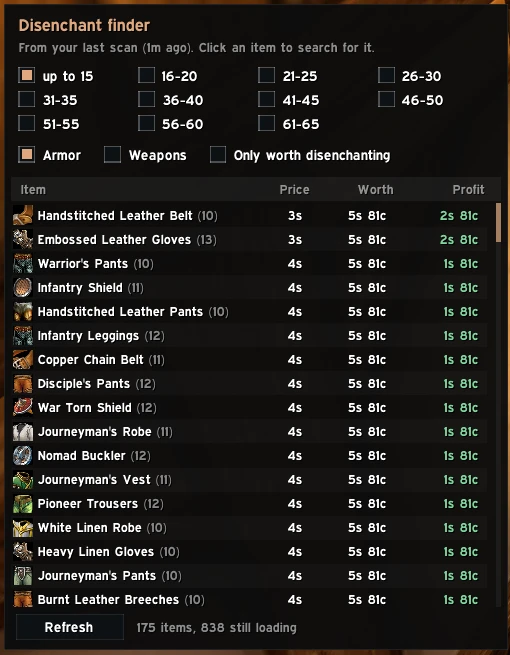
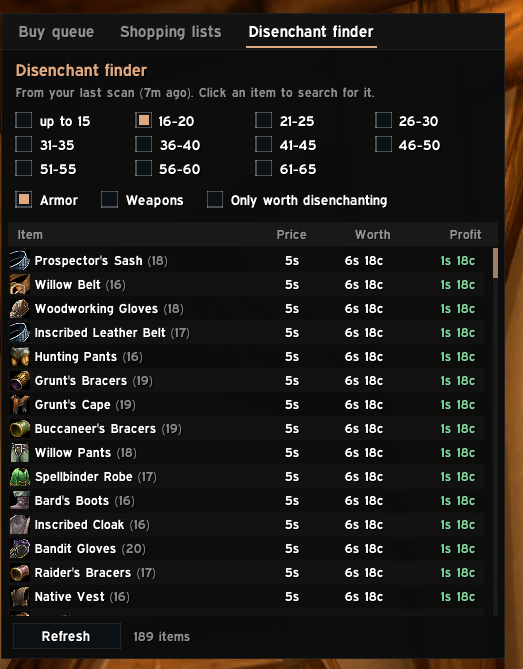
Release 0.8.0

Changed region(s): [[0.0, 0.0, 1.0, 1.0], [0.4118, 0.2443, 0.4412, 0.2748]]

diff --git a/CHANGELOG.md b/CHANGELOG.md
@@ -5,66 +5,47 @@ The format follows [Keep a Changelog](https://keepachangelog.com/en/1.1.0/) and 
 
 ## [Unreleased]
 
-### Added
-- Buy queue: a panel beside the auction house (the Buy queue button) lines up vendor flips and shopping list items, each in its own section. (Disenchanting and good deals were in it for a while; they're back in the Disenchant finder and the Deals tab, which show more.) It finds the next one by itself, and each tick of the mouse wheel down (or a click on Buy) buys it; stacks of materials take a second tick to confirm the final price. It never pays more than the limit or more than you have. /fl queue.
-- Shopping lists: named lists of items with the most you'd pay and how many you want to have (raid consumables, twink gear...). With a list open, shift-click items to add them (or drag or type them). Set an item to Craft and the list shows the materials you need for it instead. Search this list checks them all in one click, and those at or under your price join the buy queue. /fl lists opens them anywhere, not just at the auction house. Typing a name suggests matching items, including every original Classic item the game hasn't loaded yet (like flasks above the beta's level cap; ones that can't be bought are marked and listed last), and Craft uses the original Classic recipe when none of your characters knows it. Hover Have to see bags, bank and your other characters. List items not cheap enough yet wait in the buy queue, greyed. Prices can be typed any way (2g 50s, 1.5g, 25s, or a plain number for gold) with a tip showing what they'll be, and "any" (or Any price for a whole list) buys the cheapest until you have enough, at most 3 times the usual price.
-- Shopping lists show how far along they are: Have turns green when you have enough, the list name shows 3/5 done, and the bottom line says Complete (or that you have every material and just need to craft).
-- Scroll to buy now works over the top box of the buy queue (with Buy in it), starts off, and turns itself off when the queue runs out, so nobody buys by accident.
-- Shopping lists: "Want means" Keep this many (have that many: Buy again tops you up) or Buy this many (buy that many whatever you have: Buy again buys it all again), chosen per list.
-- Buy queue: it pauses its lookups while you search the auction house yourself (clicking flips in the main window, the search box), so it doesn't replace the page you're buying from (pages spun and buys were refused). It carries on a few seconds after you stop, or at once when you click Buy.
-- Buy queue: unticking a kind (Disenchant, Vendor flips...) now drops the item the queue was on if it was of that kind; it used to stay and keep buying (a disenchant green after Disenchant was unticked).
-- Buy queue: an item that's both a vendor flip and worth disenchanting shows once as FLIP+DE, with both values in its tooltip, instead of under whichever earned more. When the queue moves to the next item, an auction house page still showing the last one goes back to the search list instead of spinning on "Searching...".
-- Buy queue: the lookup for gear found nothing at all (it asked for exact matches but no item qualities); it now asks for every quality, like the search box, and falls back to searching the item itself.
-- Buy queue: gear flips all dropped out at once as "none left" (the first reply to a lookup can be empty or the previous search's); a reply without the item no longer counts.
-- Buy queue: no more "waiting for the scan to finish". The queue looks up and buys while any scan runs (only a full scan's few seconds are waited for); the scan pauses for a moment after each lookup and each buy, and carries on by itself.
-- Buy queue: a new vendor flip joins it within a second of being found, not at the end of the flip watch's pass.
-- Buy queue: gear never got bought (every stat version's reply was ignored and the item dropped out after three tries); any version is taken now. The queue's background searches no longer count as the page you're looking at, which showed the wrong "buy up to" on item pages and could log a gear purchase as the wrong item. With /fl debug on, it says why an item leaves the queue.
-- New and imported shopping lists start with "Use in the buy queue" off; tick it when you want the queue to buy from that list.
-- Buy again (and changing an item's Want or price) puts items back in the buy queue at once; they were kept out for 2 minutes after the queue last finished them.
-- Shopping lists count what you bought on the auction house that's still in the mail, so the queue doesn't buy it again before you collect it (hover Have to see it).
-- The buy queue works out disenchant values per item level band, so rebuilding it is much quicker.
-- Shopping lists: a dropdown of all your lists instead of arrows. Items stay done once you have enough, saved through reloads, so the queue doesn't refill them after you use some; Buy again starts a list over.
-- Share and import shopping lists as plain text (for Discord or a friend). Import also takes a plain list of item names, item numbers or Wowhead links. Items can be added by Wowhead link too.
-- /fl perf also shows the addon's memory use (after clearing leftovers), how long it took to load, and the biggest parts of the saved data.
+## [0.8.0] - 2026-10-02
 
-### Fixed (buy queue and lists)
-- Typing in a shopping list's price or Want box lost the cursor after a second, as the list redrew itself; it now waits while you type.
-- The Vendor flips tab no longer works out every shuffle each time the flip watch saves a price (about 195 ms each, many times a minute): it works out just the flips, at most every 2 seconds.
+### Highlights
+- **Buy queue**: vendor flips and shopping list items lined up beside the auction house; click Buy, or scroll over it, to buy the next one
+- **Shopping lists**: named lists with the most you'd pay and how many you want, saved, shareable, and searched in one click
+- **Craft from a list**: set an item to Craft and the list shows the materials you need, less what you have
+- **Every Classic item**: type any item name and pick it, even ones above the beta's level cap
+- **Vendor flip settings**: choose the least profit worth your time, as a share of the vendor price or an amount
+- **Better deals and shuffles**: deals judged against an item's usual cheapest price, and no more absurd shuffle returns
+- **Discord**: report bugs and ideas with /bug and /feature, and get told in your thread when a fix is live
+
+### Added
+- Buy queue: the Buy queue button under the auction house opens a panel beside it with vendor flips and your shopping list items, each in its own section. Click a section to buy from it (it gets a bright border); it looks up the next item by itself, and a click on Buy buys it. Stacks of materials take a second click to confirm the final price. It never pays more than the limit, checked again on the final price, or more than you have. Only the section you clicked looks anything up or buys, and scans never switch it, so a shopping list and the flip watch don't get in each other's way. /fl queue.
+- Scroll to buy: with it ticked, each tick of the mouse wheel down over your section's top strip buys, and it keeps working while the section is empty, so new flips can be bought the moment they show up. A section on its own gets a big strip to scroll over. It starts off.
+- The flip watch adds new flips to the queue within a second of finding them, and a full scan that finds some opens the queue if it's closed. Scans pause for a moment after each of the queue's lookups and buys, and the queue pauses while you search the auction house yourself, so neither replaces the page the other is using.
+- Shopping lists: named lists of items with the most you'd pay each and how many you want. Add items by shift-clicking them, dragging them in, typing an item number or Wowhead link, or typing a name and picking from the suggestions. Pick a list from the dropdown; tick "Use in the buy queue" for the queue to buy from it. Search list checks everything on it in one click. /fl lists opens them anywhere, not just at the auction house.
+- Want means: per list, Keep this many (bags, bank and auction house purchases still in the mail count; Buy again tops you up after you use some) or Buy this many (Bought counts purchases since Buy again; Buy again buys it all again). Items stay done once you have enough, so the queue doesn't refill them, and the list shows how far along it is (3/5, Complete).
+- Craft: set a list item to Craft and the list shows the materials for the number you want, less what you have, with the most to pay for each (your usual price unless you type one). Materials vendors sell are marked. When none of your characters knows the recipe, the original Classic one is used.
+- Prices can be typed any way (2g 50s, 1.5g, 25s, or a plain number for gold), with a tip showing what they'll be. "any", or Any price for a whole list, buys the cheapest until you have enough, never more than 3 times the usual price.
+- Share and Import shopping lists as plain text, for Discord or a friend. Import also takes a plain list of item names or Wowhead links.
+- Every original Classic item's name and recipe is built in, so you can find and plan items the game hasn't loaded yet; ones that can't be bought are marked.
+- Hover Have on a shopping list to see how many are in your bags, bank, the mail and on your other characters.
+- Vendor flips have their own settings: the least profit worth your time, as a share of the vendor price (0% counts anything below it) and as an amount each.
+- Crates: the money a turn-in pays back is taken off the cost ("Pays back" and "Net cost" columns), and crates that pay back more than they cost show a green profit.
+- Prices seen at a merchant note your standing with them: "Vendor sells it for 4c at Honored".
+- Discord: the Help tab and guide link the Forever Ledger Discord, where /bug and /feature report bugs and ideas. Your report becomes a GitHub issue; your replies are copied to it, and your thread is told when the fix is live.
+- "Your data" in the Help tab, the guide and the README: everything stays on your PC.
+- /fl perf also shows memory use, how long the addon took to load, and the biggest parts of the saved data.
 
 ### Changed
-- Buy queue sections: each ticked kind (Vendor flips, Disenchant, Good deals, Shopping lists) has its own section with its own list and Buy strip. Only the section you click is the one you buy from (bright border); the others just show what the last scan found. Scans and the flip watch never switch it, so a shopping list and the flip watch don't get in each other's way. Scroll to buy works over that section's strip, even while it's empty. A section on its own gets a big strip and Buy button, a large target to scroll over.
-- The Vendor flips tab is gone: vendor flips are bought from the Buy queue beside the auction house. A full scan that finds flips opens the Buy queue if it's closed (it never switches a tab you're on); the flip watch's quick checks only chime.
-- The Disenchant finder moved into the new side panel: the button under the auction house is now Buy queue, and the finder is its third tab.
-- Vendor flips have their own settings: the least profit worth your time, as a share of the vendor price (0% counts anything below it) and as an amount each. They used to share the shuffles' safety margin, but selling to a vendor has no risk, only effort. The same rule sets "buy up to" on the auction house and the below-vendor-price deal alerts.
+- The Vendor flips tab is gone: vendor flips are bought from the Buy queue. The Disenchant finder is now a tab of the same panel, next to Shopping lists.
+- Deals are measured against the price an item is usually cheapest at, not its typical price, so there are far fewer and far more believable deals.
+- Plays nice with Auctionator and TSM: the first time either is found, Forever Ledger turns off what they already cover (for now the price lines in tooltips) and says so once, with a button to keep them on.
 
 ### Fixed
-- Items vendors won't buy (Greater Magic Essence) showed "Sell to vendor 1c": the game gives them a 1c price. The addon now checks the item's own tooltip for a sell price and shows no vendor price when there isn't one.
-- Gear flips stayed on Vendor flips after their cheap listings were gone (Raider's Chestpiece, Priest's Mace, Soldier's Armor). The auction house's search list shows each item's cheapest price live, and saved listings below it are now dropped.
-- With the flip watch running, gear you bought was logged as the last item the watch looked at (a Soldier's Armor purchase showed as Curved Dagger).
-- Shuffles that end on the auction house showed absurd returns (Simple Linen Pants 10,564%): the item was valued at the average of a few pricey listings. What selling brings is now the lowest of today's cheapest listing, that average, and the usual cheapest price from your scans.
-- Greater Magic Wand showed as a deal after the October 1 patch made crafted wands vendor for 1 copper: its "usual price" came from before the change. Price history from before an item's vendor price changed is now ignored.
-- What a vendor pays now always follows the game's current item data (the tooltip's Sell Price); the remembered price is only used until the game has loaded the item. The October 1 beta build made crafted wands sell for 1 copper (Greater Magic Wand was 15s), and the old remembered price would have kept wand shuffles on the list.
-
-### Changed
-- Prices seen at a merchant now note your standing with that merchant and the character: "Vendor sells it for 4c at Honored" in tooltips, since reputation (and Forever's Bartering perk) lowers what vendors charge.
-
-### Added
-- Crates: the money a turn-in pays back (Apprentice about 2s 50c, green crates 5s, learned from your own turn-ins like the Favor) is taken off the cost. A new "Pays back" column, "Net cost" in place of Total, gold per Favor after the payout, and crates that pay back more than they cost show a green profit ("free" Favor).
-- With /fl debug on, scans report what the game tells about each listing (time left, seller), to plan a better sell speed.
-- Discord: when you reply in your bug or idea thread, your reply is copied to its GitHub issue, and when a release fixes it, the thread gets a "Now live in X" message.
-- "Help and community" in the Help tab and the guide: the Forever Ledger Discord (discord.gg/WKsCtvupeC), with /bug and /feature forms for reports and ideas.
-- "Your data" in the Help tab, the guide and the README: everything stays on your PC; the addon only sends live sync to your own paired character and ads you click to post.
-
-### Changed
-- Plays nice with Auctionator and TSM: the first time either is found, Forever Ledger switches off what they already cover (for now the auction and vendor price lines in tooltips) and says so once, with a button to keep them on. Settings can change it any time. This replaces the old one-line-tooltip question.
-- Deals are measured against the price an item is usually *cheapest* at, not its typical price (which includes dearer listings), and profit assumes reselling at that usual cheapest price or just under the next listing. Gray Woolen Robe at 40s showed as 27% off while it was normally listed from 38s; it's no longer a deal. Only listings that still make the minimum profit count towards "Profit all". Expect far fewer, more believable deals.
-
-### Fixed
-- Gear vendor flips now drop off as soon as you buy them (Hefty Battlehammer stayed until the next full scan): a gear purchase is taken off the saved listings.
-- Vendor flip alerts: a flip could appear on the Vendor flips tab without a chime (Roasted Boar Meat). Alerts now follow the tab exactly, fire as soon as the flip watch or your own search finds a flip instead of at the end of a two-minute pass, name each new flip in chat, and an item that stops being a flip alerts again if it comes back.
-
-### Added
-- Scans now also collect a rough sell speed (listings that disappear between full scans, compared across logins). It isn't shown yet: in the beta, full scans don't return the same listings each time, so the counts aren't reliable. It will appear on the Deals tab once it is.
+- Shuffles that end on the auction house showed absurd returns (Simple Linen Pants 10,564%); what selling brings now uses the item's usual cheapest price.
+- What a vendor pays follows the game's current item data, and price history from before a vendor price changed is ignored (crafted wands now sell for 1 copper, and the Greater Magic Wand stopped showing as a deal).
+- Items vendors won't buy (essences, dust, shards) showed "Sell to vendor 1c"; they show no vendor price now.
+- Gear flips dropped off as soon as their cheap listings were gone or bought, not at the next full scan, and gear purchases are logged under the right item.
+- Flip alerts follow the flips exactly and fire as soon as a flip is found.
+- The flips list no longer works out every shuffle each time a price is saved, which caused a small hitch every few seconds.
 
 ## [0.7.0] - 2026-09-30
 
@@ -188,7 +169,7 @@ A new look, a dashboard and a ledger, deal alerts, and tools for working a shuff
 - Work it: a small window for doing one shuffle, opened from any shuffle or vendor flip. Click an item to search the auction house for it or buy it from the open vendor (one click, one purchase). A Craft button starts the first craft; if that profession's window is closed, the first click opens it and the second crafts. One Runs number sets what to buy, how many to craft and the session goal.
 - Sessions: count what you spend on a shuffle's materials, earn from its products, and runs done, with profit and profit per hour, until you stop. A chime and "Goal reached" when you hit your goal. `/fl session` opens it.
 - Deal alerts after each scan (chime, on-screen message, chat list): listings well below their usual price (percent and period of your choice, from this addon's price history or TradeSkillMaster's when installed), or below what a vendor pays. `/fl deals` lists them.
-- On the auction house: listings worth buying are tinted on an item's buy page, with "Worth buying up to …: N available" above; search results are tinted too.
+- On the auction house: listings worth buying are tinted on an item's buy page, with "Worth buying up to â€¦: N available" above; search results are tinted too.
 - History, recorded from now on: each character's gold, money in and out by source, auction house sales (with quantity and buyer) and purchases, vendor trades per item (12 months), and price history per item (daily for 30 days, weekly for 2 years, all-time lowest and average). `/fl money` shows today's money.
 - Settings tab with controls for every setting.
 - The ledger window can be resized, and remembers its size.
@@ -209,7 +190,7 @@ Value engine, shuffle finder and vendor flips. Tested on the Forever beta. The i
 - Vendor floors: the guaranteed value of a material when a known recipe turns it into something a vendor buys.
 - Disenchant values for green armor and weapons up to item level 20: a "Disenchant" option in "Worth to you", a "Craft X, disenchant" option for materials, and a "Disenchants to about" tooltip line. Only shown when one of your characters has Enchanting. Crafted wands and other Enchanting products are skipped, since Forever doesn't allow disenchanting them.
 - Essence conversions in "Worth to you": splitting a greater essence into 3 lesser, and combining 3 lesser into a greater, for every essence type. Disenchant values use them too.
-- "Worth to you" follows chains up to 4 steps long, for example Linen Cloth → Bolt of Linen Cloth → Heavy Linen Gloves → disenchant → Greater Magic Wand → vendor. Only the three best recipes are listed.
+- "Worth to you" follows chains up to 4 steps long, for example Linen Cloth â†’ Bolt of Linen Cloth â†’ Heavy Linen Gloves â†’ disenchant â†’ Greater Magic Wand â†’ vendor. Only the three best recipes are listed.
 - Inside a chain, auction house prices with fewer than 5 listings are ignored, so one overpriced listing can't inflate values.
 - Shuffle finder: `/fl shuffles` lists the best shuffles in two groups, ones that end with vendor sales (safe) and ones that end on the auction house (depend on buyers). Each shows what to buy, profit per craft, return and a rough profit per hour. `/fl shuffles all` lists everything, including one-off deals with fewer than 5 listed.
 - Shuffles tab in the ledger window: the same two groups as `/fl shuffles`, one row each with profit, return and profit per hour. Click a row to see what to buy and each step. Refresh recalculates. Items that disenchant the same way are grouped into one row, for example "Item level 16-20 green armor (27 items)".

diff --git a/docs/GUIDE.md b/docs/GUIDE.md
@@ -44,6 +44,9 @@ Everything the addon does, at a high level. The same text is in the game under *
 - **Sections**: Vendor flips and Shopping lists are each their own section, stacked when both are ticked (one on its own gets a big strip to scroll over), each with its own list and its own strip at the top ("Buy Edged Bastard Sword for 9s", and a Buy button). **Only the section you click is the one you buy from**: it gets a bright border and says "buying from this one", and only it looks things up on the auction house. The others just show what the last scan found. A section on its own (flips only, say) starts by itself; shopping lists only ever start when you click them. Scans and the flip watch add to the sections but never switch which one you're buying from, so working on a shopping list never buys a flip by accident, and farming flips never buys from a list.
 - **Farming flips**: tick only Vendor flips, tick **Scroll to buy**, and leave the mouse over the flips strip. When the flip watch chimes, scroll down to buy; an empty section just waits for the next one.
 - **Safe by design**: it never pays more than the limit shown (checked again against the final price) or more than you have, and every purchase is your own tick or click, as Blizzard requires. **Scroll to buy** starts off; it only works over the top strip of the section you're buying from. Click a row to buy that one next; right-click to skip it. Gear sold in stacks is left for you to buy on the page.
+
+![Buy queue with Vendor flips and Scroll to buy ticked](images/buy-queue.png)
+
 - **Shopping lists**: named lists of items with the most you'd pay each and how many you want to have, for example raid consumables or twink gear to watch for. Pick a list from the dropdown at the top; every list ticked **Use in the buy queue** feeds the queue at the same time. With the list open, shift-click an item from your bags or a chat link to add it, drag it in, or start typing its name and pick from the suggestions (Enter takes the top one). Suggestions include items the game hasn't loaded yet, from original Classic. Hover **Have** to see how many are in your bags, bank and on your other characters. `/fl lists` opens your lists anywhere (a window you can move), so you can plan before you go to the auction house.
 - **Want means**: each list picks one.
   - **Keep this many** (the default): Want is how many you want to *have*. Bags, bank and auction house purchases still in the mail count, and the queue only buys what you're short of. After a raid, **Buy again** tops you back up to the number. Best for consumables you keep in stock.
@@ -63,6 +66,8 @@ Everything the addon does, at a high level. The same text is in the game under *
   If none of your characters knows the recipe, the original Classic recipe is used (hover the item to see it); Forever may have changed some.
 - **Search list** checks every item and material in one click; those at or under your price turn green and join the buy queue. Items not cheap enough yet wait at the bottom of the buy queue, greyed, so you can see they're being watched.
 - The panel's third tab is the **Disenchant finder** (below).
+
+![A shopping list with an item set to Craft and its materials](images/shopping-list.png)
 
 ## Deals
 

diff --git a/README.md b/README.md
@@ -10,7 +10,8 @@ A gold-making addon built specifically for **WoW Forever**. It scans the auction
 
 - **Tooltips that answer "what's this worth?"** The best way to turn an item into gold, the most it's worth paying, what it disenchants into, and which of your recipes use it. One line with Shift for more, if you prefer.
 - **Deals.** Listings well below their usual price, with why each one is a deal: the usual price and how many days of scans it's based on, the price now, the next listing up, and the resale profit after the auction house cut. Each deal is rated Good, Fair or Thin.
-- **Vendor flips.** Things on the auction house for less than a vendor pays. Watch flips keeps scanning while the auction house is open and chimes when one shows up.
+- **Buy queue.** Vendor flips (things on the auction house for less than a vendor pays) and your shopping lists, lined up beside the auction house: click Buy, or scroll over it, to buy the next one. Watch flips keeps scanning while the auction house is open and chimes when a new flip shows up.
+- **Shopping lists.** Named lists with the most you'd pay and how many you want (raid consumables, twink gear), saved and shareable. Set an item to Craft and the list shows the materials you need, less what you have.
 - **Shuffles.** Buy materials, craft, disenchant or convert, and sell, ranked by gold per hour. Work it walks you through each step with one-click buttons.
 - **On the auction house.** Listings worth buying get a green bar and a badge saying why (FLIP, DE, CRAFT, USE).
 - **Disenchant finder.** Green armor and weapons by item level, with what each is worth to disenchant and the odds of each material.
@@ -66,6 +67,7 @@ See the [roadmap](https://github.com/ivellos/forever-ledger/blob/main/ROADMAP.md
 | `/fl margin 10` | Safety margin for shuffles and "buy at or below", in percent |
 | `/fl seconds 3` | Seconds per craft, used for profit per hour |
 | `/fl watch` | Watch flips: keep scanning while the auction house is open, chime on a new vendor flip |
+| `/fl queue`, `/fl lists` | The buy queue or shopping lists beside the auction house (lists open anywhere) |
 | `/fl deals` | Open the Deals tab (`/fl deals list` in chat, `/fl deals settings` for the options; they're also in the Settings tab) |
 | `/fl customers` / `/fl work` | The Customers window: requests from chat, ads, and work done |
 | `/fl session` | Open the Work it window for the running session |

diff --git a/ROADMAP.md b/ROADMAP.md
@@ -6,8 +6,6 @@ What's already in the addon is in the [changelog](CHANGELOG.md). Download: [Rele
 
 ## Being tested now
 
-- **Buy queue (scroll to buy)** and **shopping lists**: everything worth buying in one queue beside the auction house, bought one mouse wheel tick at a time as Blizzard requires; named lists with the most you'd pay and how many you want.
-
 - **Arcane Salvager**: measuring how much it really improves disenchanting (nothing official says), then a plan for using it well: saving up greens and disenchanting them in 15-minute Salvager windows when the extra materials are worth more than the Salvager costs.
 - **Neutral auction houses**: prices kept as their own market, a 15% cut in the math, and items only one faction can buy, to sell to the other side.
 - **Where recipes come from**: original Classic vendor, drop and trainer locations are shown as "(Classic)" until players confirm them in Forever.
